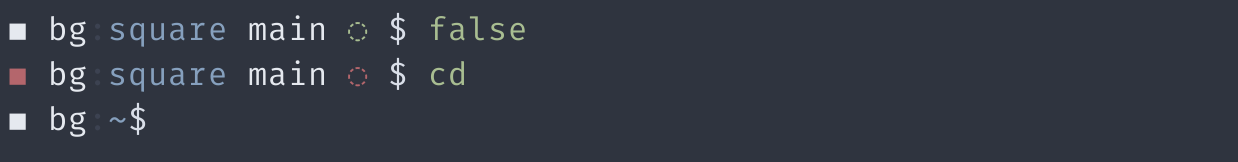
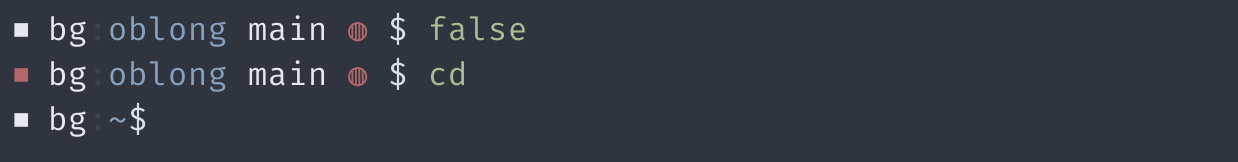
Change symbol

diff --git a/README.md b/README.md
@@ -1,33 +1,30 @@
-oblong
-=======
+# oblong
 
-A simple bash-insprired prompt for [ZIM], the ZSH-IMproved shell. 
+A simple bash-insprired prompt for [ZIM], the ZSH-IMproved shell.
 
 <img width="706" src="https://raw.githubusercontent.com/Ansimorph/oblong/main/screenshot.png">
 <img width="619" src="https://raw.githubusercontent.com/Ansimorph/oblong/main/screenshot2.png">
 
 This prompt is based on [gitster] and [basher].
 
-What does it show?
-------------------
+## What does it show?
 
-  * Red `◼` when last command failed, white otherwise.
-  * Current working directory, relative to the git root when in a git repo.
-  * Current git branch name, or commit short hash when in ['detached HEAD' state].
-  * Red `◌` when in a dirty git working tree, green `◌` when in a clean one.
+- Red `◼` when last command failed, white otherwise.
+- Current working directory, relative to the git root when in a git repo.
+- Current git branch name, or commit short hash when in ['detached HEAD' state].
+- Red `◍` when in a dirty git working tree, green `◍` when in a clean one.
 
-Advanced settings
------------------
+## Advanced settings
 
 This theme can customized by changing the following git-info module context
 formats, after the theme has been initialized:
 
-| Context name | Description       | Default value |
-| ------------ | ----------------- | ------------- |
-| branch       | Branch name       | `%b`          |
-| commit       | Commit short hash | `%c`          |
-| clean        | Clean state       | `%F{green} ◌`  |
-| dirty        | Dirty state       | `%F{yellow} ◌` |
+| Context name | Description       | Default value  |
+| ------------ | ----------------- | -------------- |
+| branch       | Branch name       | `%b`           |
+| commit       | Commit short hash | `%c`           |
+| clean        | Clean state       | `%F{green} ◍`  |
+| dirty        | Dirty state       | `%F{yellow} ◍` |
 
 Use the following command to change the value of a context format:
 
@@ -35,16 +32,14 @@ Use the following command to change the value of a context format:
 
 For detailed information, check the [git-info documentation].
 
-Requirements
-------------
+## Requirements
 
 Requires Zim's [git-info] module to show git information.
 
 [gitster]: https://github.com/shashankmehta/dotfiles/blob/master/thesetup/zsh/.oh-my-zsh/custom/themes/gitster.zsh-theme
-['detached HEAD' state]: http://gitfaq.org/articles/what-is-a-detached-head.html
+['detached head' state]: http://gitfaq.org/articles/what-is-a-detached-head.html
 [git-info documentation]: https://github.com/zimfw/git-info/blob/master/README.md#theming
 [git-info]: https://github.com/zimfw/git-info
-[ZIM]: https://github.com/zimfw/zimfw
+[zim]: https://github.com/zimfw/zimfw
 [gitster]: https://github.com/zimfw/gitster
-[basher]: https://gitlab.com/Spriithy/basher 
-
+[basher]: https://gitlab.com/Spriithy/basher
